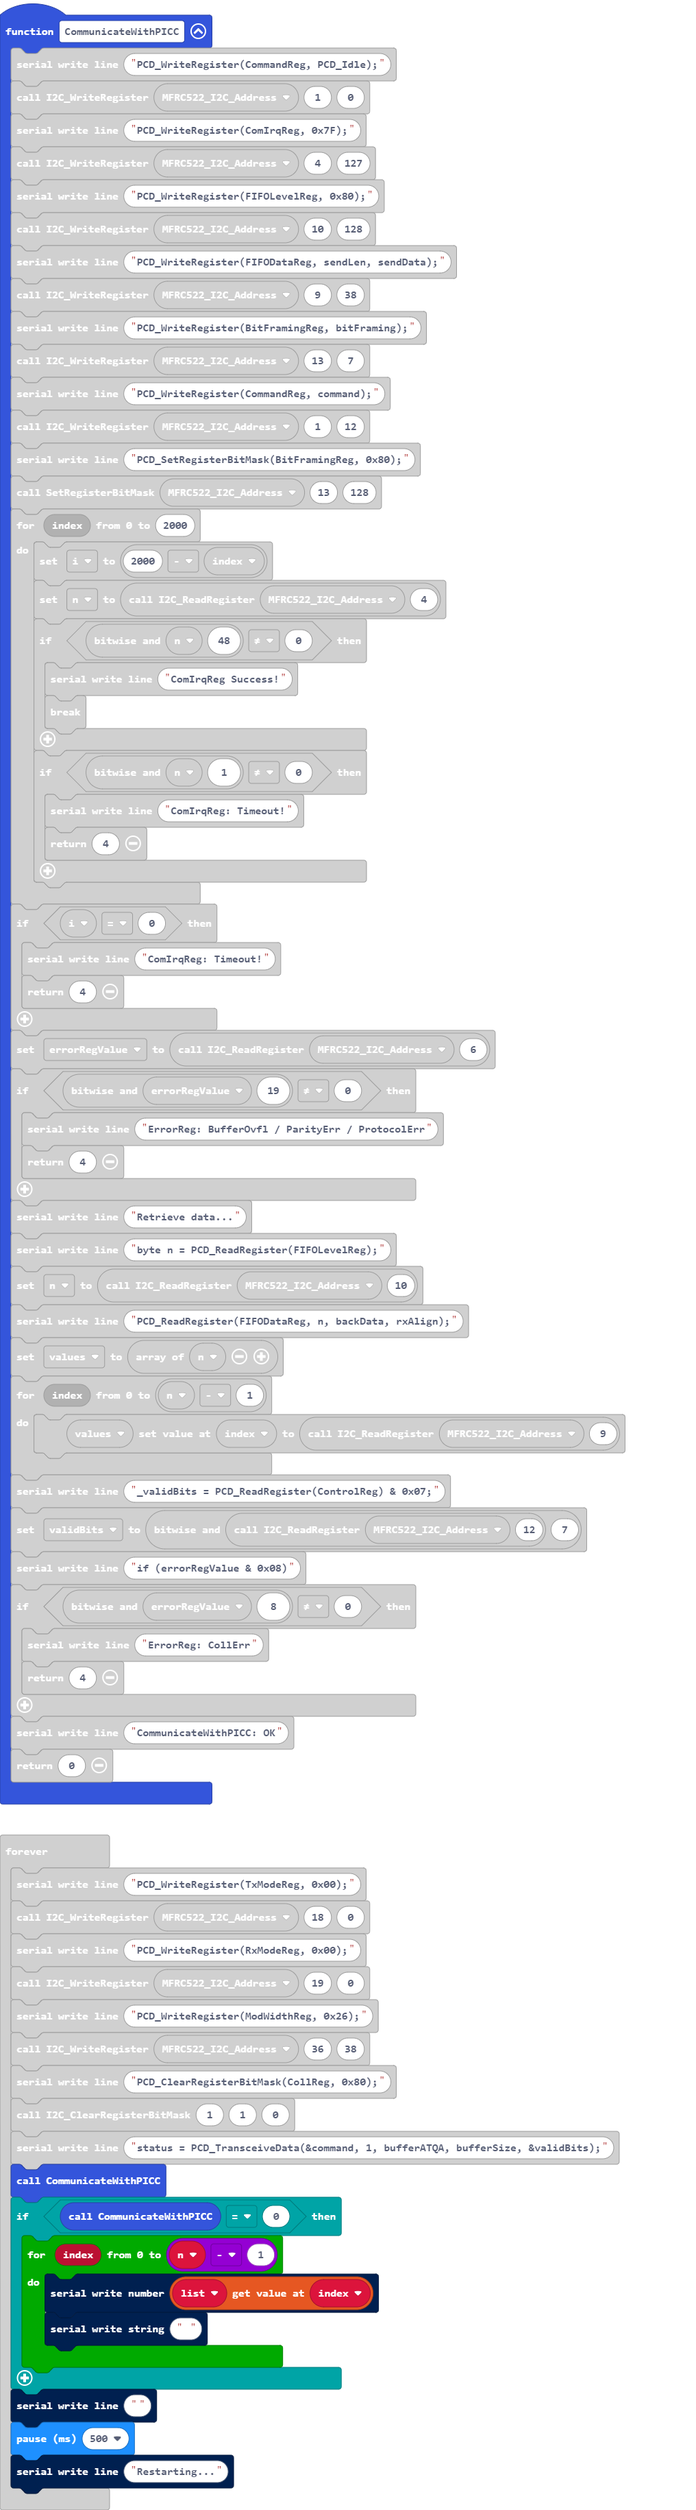
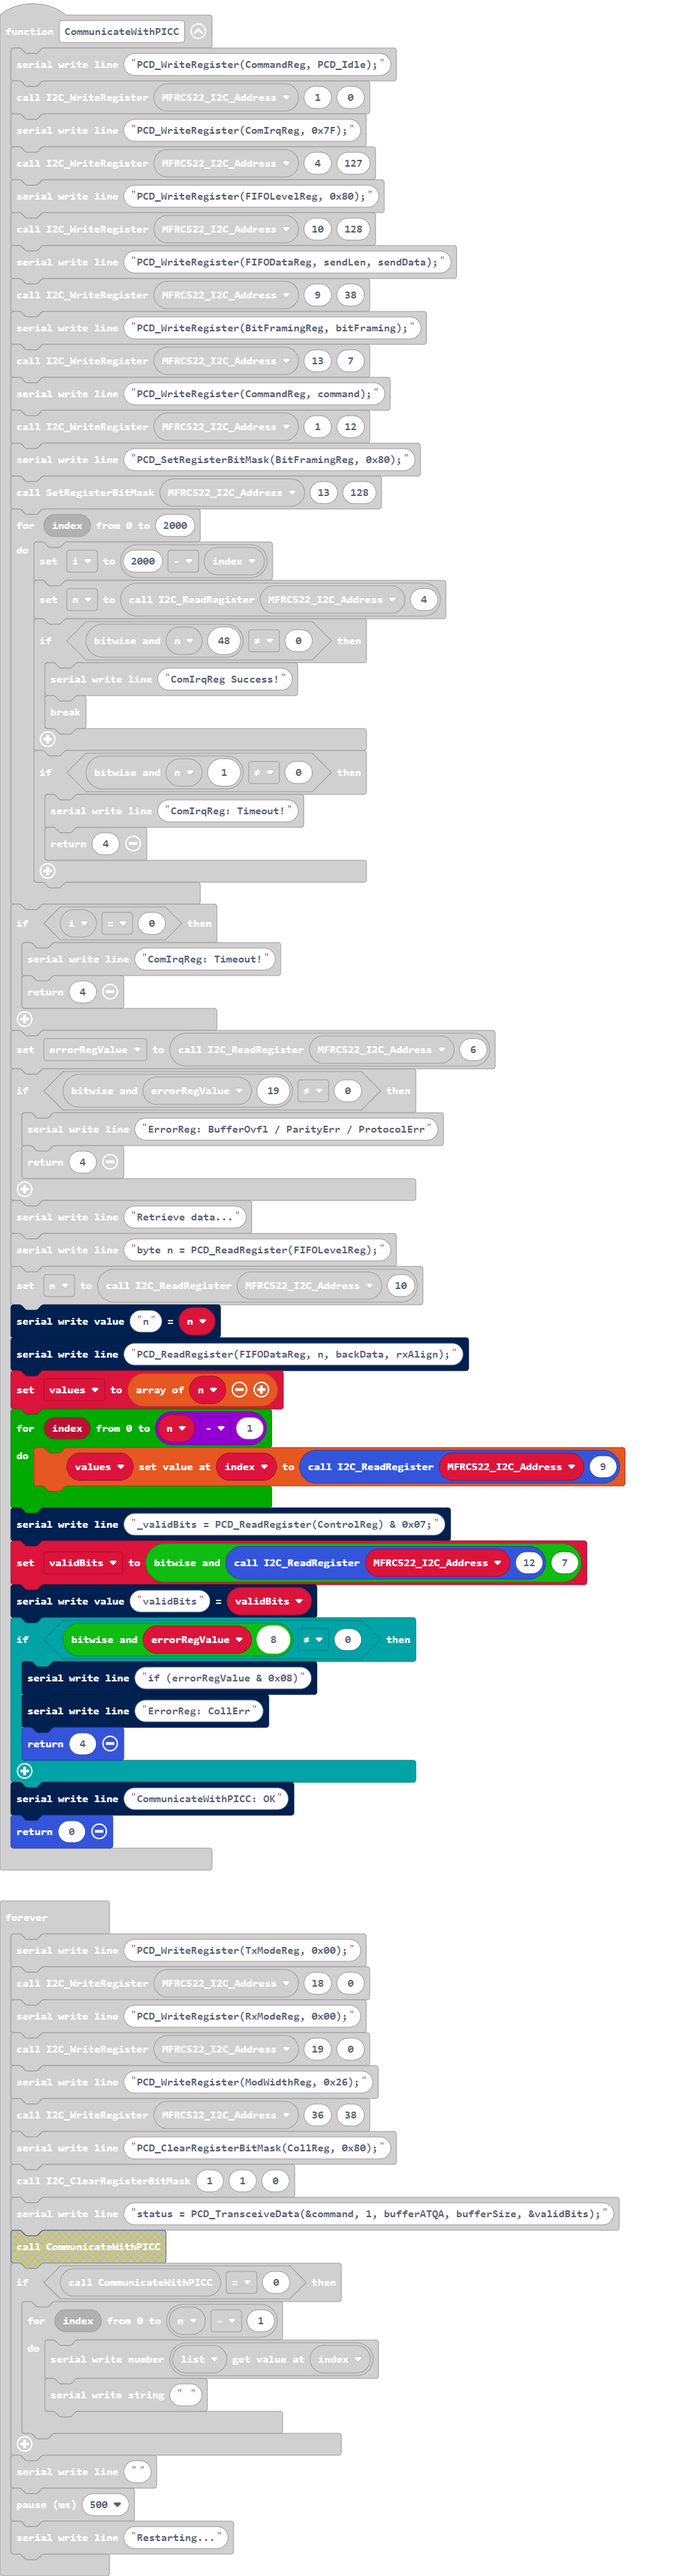
fix errors

diff --git a/main.ts b/main.ts
@@ -59,6 +59,7 @@ function CommunicateWithPICC () {
     serial.writeLine("Retrieve data...")
     serial.writeLine("byte n = PCD_ReadRegister(FIFOLevelReg);")
     n = I2C_ReadRegister(MFRC522_I2C_Address, 10)
+    serial.writeValue("n", n)
     serial.writeLine("PCD_ReadRegister(FIFODataReg, n, backData, rxAlign);")
     values = [n]
     for (let index = 0; index <= n - 1; index++) {
@@ -66,8 +67,9 @@ function CommunicateWithPICC () {
     }
     serial.writeLine("_validBits = PCD_ReadRegister(ControlReg) & 0x07;")
     validBits = custom.BitwiseAnd(I2C_ReadRegister(MFRC522_I2C_Address, 12), 7)
-    serial.writeLine("if (errorRegValue & 0x08)")
+    serial.writeValue("validBits", validBits)
     if (custom.BitwiseAnd(errorRegValue, 8) != 0) {
+        serial.writeLine("if (errorRegValue & 0x08)")
         serial.writeLine("ErrorReg: CollErr")
         return 4
     }
@@ -102,7 +104,6 @@ basic.forever(function () {
     serial.writeLine("PCD_ClearRegisterBitMask(CollReg, 0x80);")
     I2C_ClearRegisterBitMask(1, 1, 0)
     serial.writeLine("status = PCD_TransceiveData(&command, 1, bufferATQA, bufferSize, &validBits);")
-    CommunicateWithPICC()
     if (CommunicateWithPICC() == 0) {
         for (let index = 0; index <= n - 1; index++) {
             let list: number[] = []
